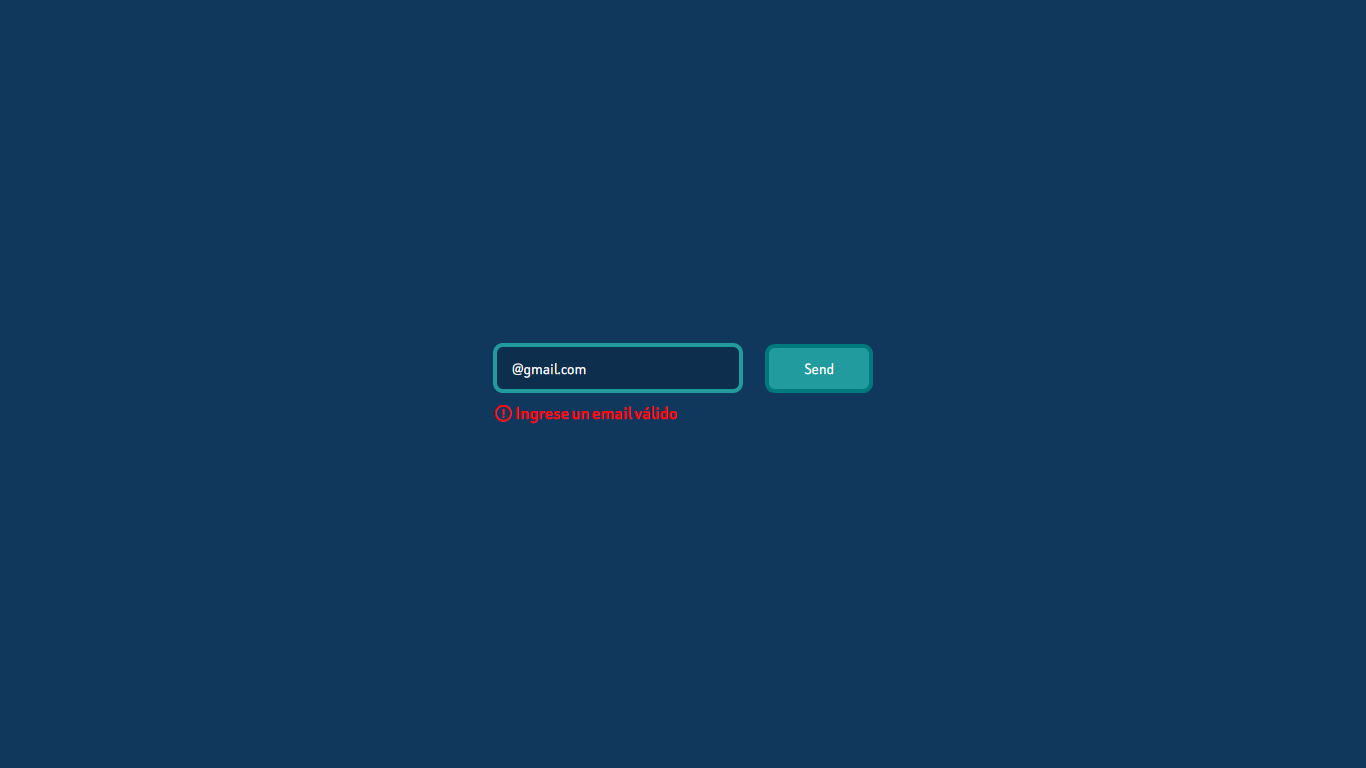
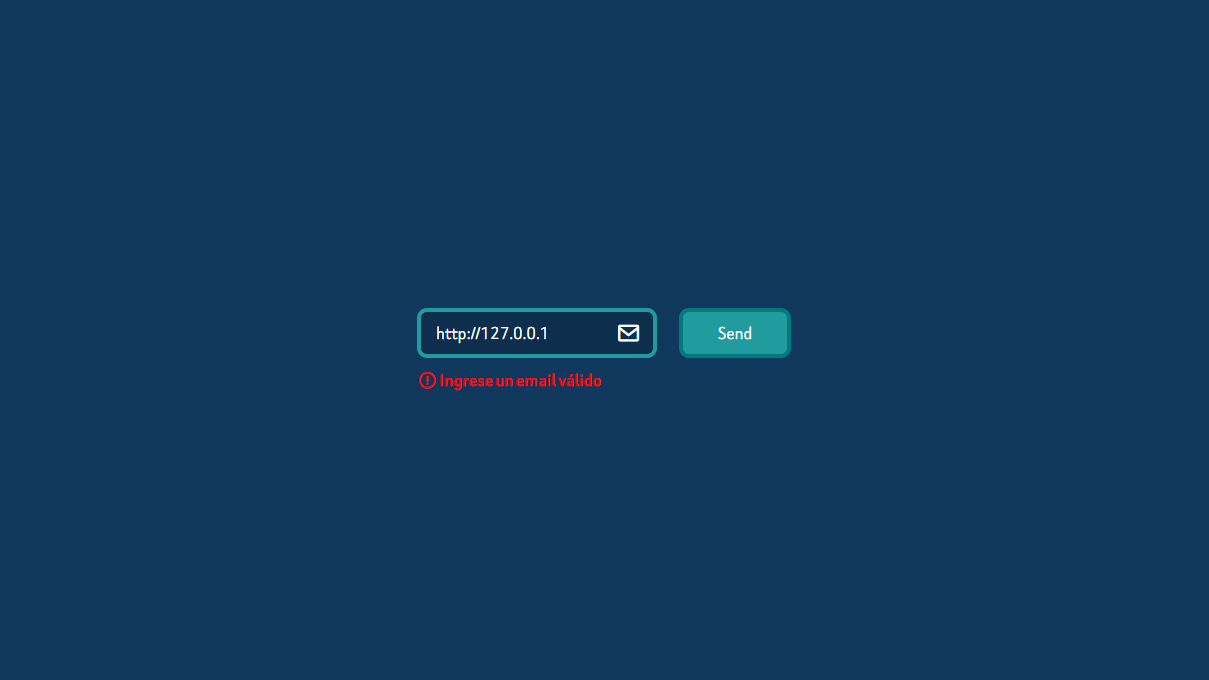
arreglo en el diseño

Changed region(s): [[0.3366, 0.4324, 0.6733, 0.5868]]

diff --git a/css/style.css b/css/style.css
@@ -15,7 +15,8 @@ body {
     background-color: rgb(16, 55, 92);
 }
 
-#box-container {
+#boxContainer {
+    position: relative;
     width: 100%;
     height: 50px;
     margin: 20px 0;
@@ -26,18 +27,27 @@ input {
     border: 4px solid rgb(33, 155, 157);
     border-radius: 10px;
     outline: none;
-    width: 250px;
+    width: 240px;
     height: 50px;
     margin-right: 20px;
-    margin-bottom: 8px;
     padding-left: 15px;
+    padding-right: 50px;
     background-color: rgba(0, 0, 0, .17);
     color: white;
     transition: .2s;
+    font-size: 20px;
 }
 
 input:hover {
     border: 4px solid rgb(0, 122, 124);
+}
+
+input::placeholder {
+    color: rgba(255, 255, 255, .3);
+}
+
+input:focus {
+    border: 4px solid rgb(33, 155, 157);
 }
 
 .wrongEmail {
@@ -47,6 +57,7 @@ input:hover {
     font-size: 20px;
     font-weight: 600;
     display: none;
+    margin-top: -10px;
 }
 
 .wrongEmail.active {
@@ -57,10 +68,11 @@ button {
     border: none;
     border-radius: 10px;
     background-color: rgb(33, 155, 157);
-    padding: 10px 35px 10px 35px;
+    padding: 9px 35px 9px 35px;
     color: white;
     border: 4px solid rgb(0, 122, 124);
     transition: .2s;
+    font-size: 20px;
 }
 
 button:hover {
@@ -75,10 +87,11 @@ button:hover {
 }
 
 #boxContainer i {
-    color: white;
     position: absolute;
+    color: rgba(255, 255, 255);
     font-size: 25px;
-    right: 15px;
+    right: 150px;
     top: 50%;
     transform: translateY(-50%);
+    pointer-events: none;
 }
